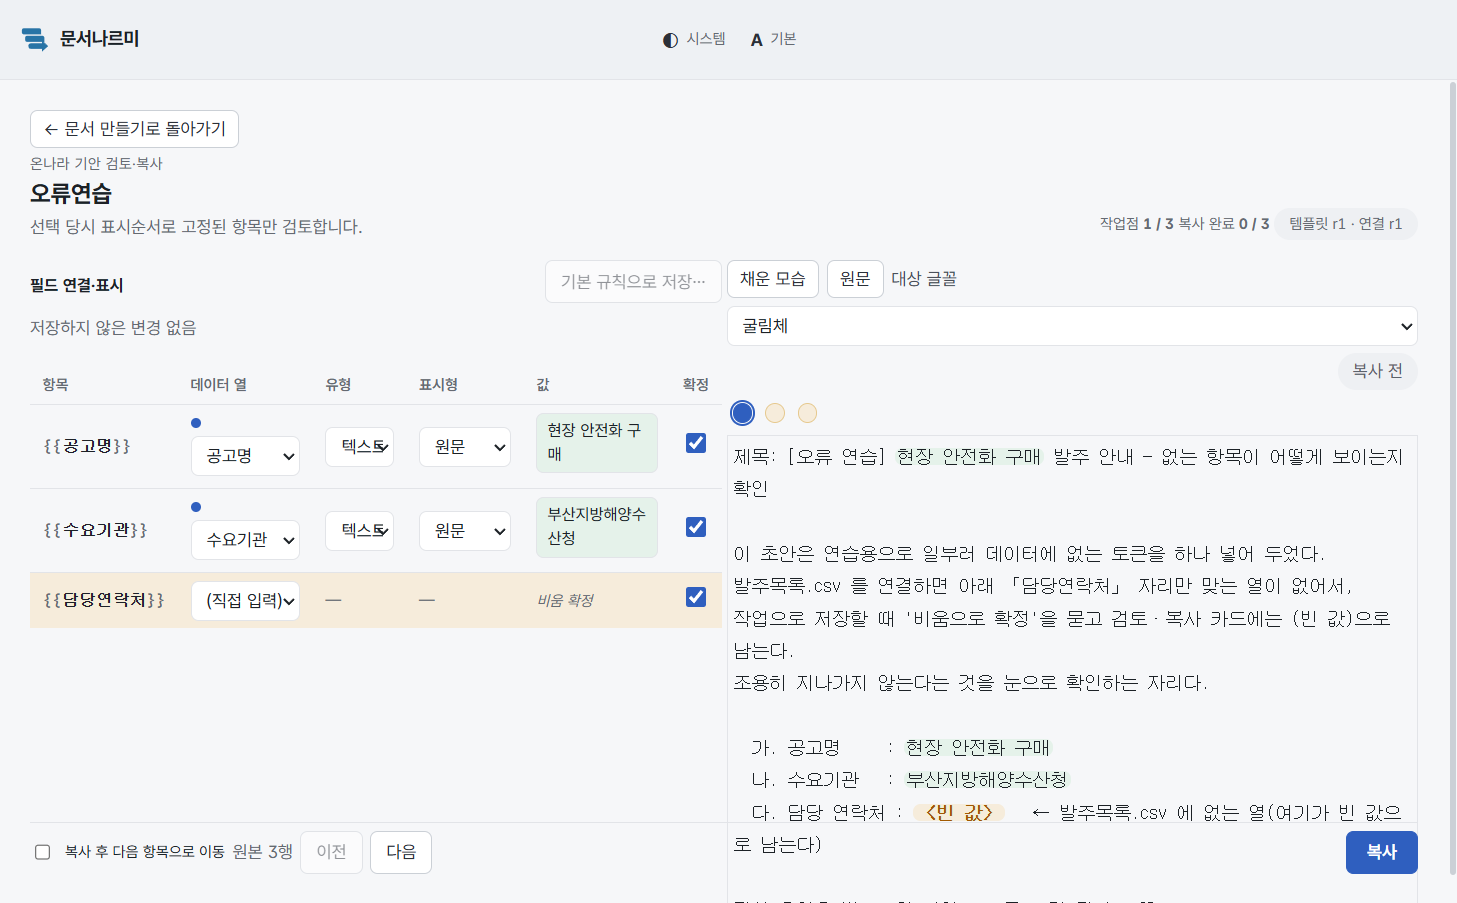
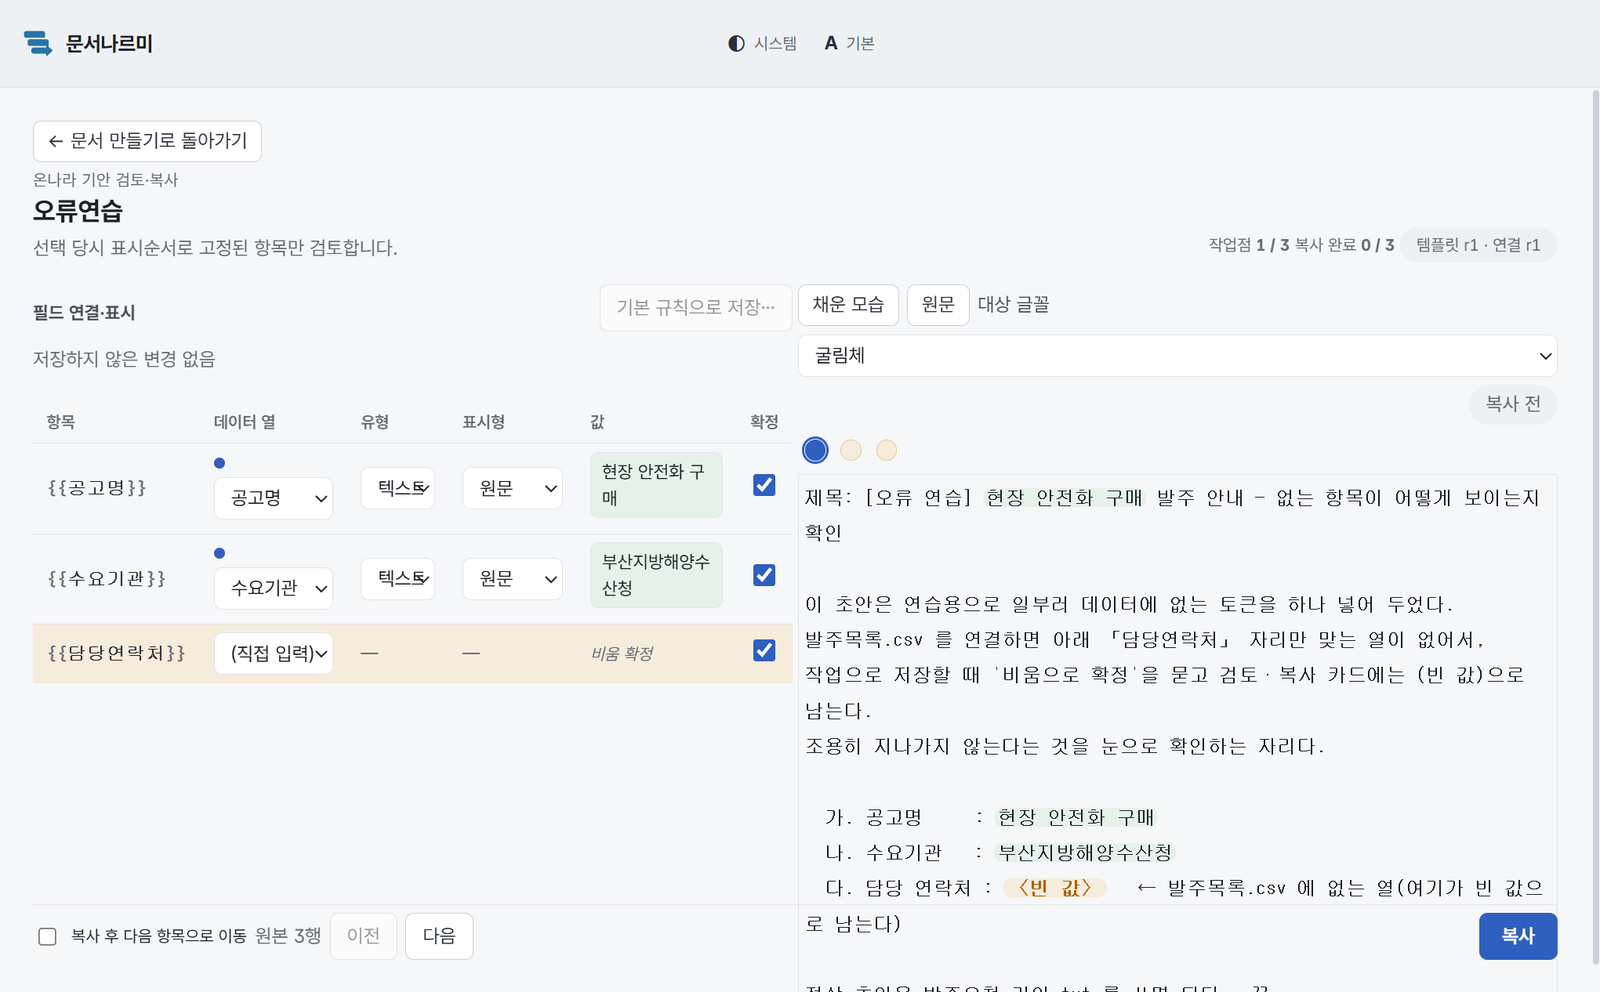
fix: `.zone` 규칙군 복구 + 고아 class 게이트 — 공유 표면 사망의 과다 삭제 (#330)
「기안」 화면 사망(F6 PR-B, 67894b0)이 `.draft-duo` 를 지우면서 곁달린 공유 규칙 넷을
함께 지웠다. `.draft-duo` 는 화면과 함께 죽는 것이 맞았지만 `.job-zones`·`.zone`·
`.zone + .zone`·`.zone-cap` 은 살아 있는 「문서 만들기」가 쓰던 것이다.

소실이 조용했던 이유는 규칙 없는 class 에 브라우저가 아무 말도 하지 않기 때문이다.
실사용 피드백 3건(좌우 열 간격이 좁다 · 섹션별 식별성 부족 · 캡션이 눈에 안 들어온다)이
전부 이 회귀 하나로 수렴했다.

같은 커밋이 주석을 「job·draft 공통(둘 다 .zone)」에서 「job 소유(.zone)」로 고쳐 써서
흔적으로도 잡을 수 없었다 — 규칙을 지운 손이 소유자를 명시해 뒀다.

`.data-grid` 에 gap 은 넣지 않는다. 「열 간격이 좁다」의 원인은 gap 미선언이 아니라 존
패딩 0 이고, 패딩이 돌아오면 두 열의 존이 각자 16px 를 갖고 구분선 양쪽에 선다.

그물: tests/test_web_css_orphan_classes.py — DOM 이 내는 class 중 CSS 규칙이 한 줄도
없는 것을 실패로 만든다. 기존 test_web_css_manifest.py 는 파일 단위라(링크 순서·전수
등재·주석 균형) 등재된 파일 안에서 규칙이 편집돼 사라지는 것은 못 본다. 복구 전에
빨간불을 먼저 확인했다(양성 대조). 방향은 하나뿐임을 docstring 에 선언한다 — 반대
방향(죽은 선택자)은 #325 소관.

101 스크린샷 14컷은 실앱 재캡처분이다.

Claude-Session: https://claude.ai/code/session_019GfPPAf3rQnNk4pgaKWT7v

diff --git a/web/css/job.css b/web/css/job.css
@@ -218,6 +218,18 @@ body.resizing-master{cursor:col-resize;user-select:none}
    구분선**으로. 종전엔 존마다 border+radius 카드에 legend(zone-cap 이 border 를 타넘던 절대배치)
    라 패널 안에 상자가 겹쳐 보였다. 이제 job-zones 가 단일 카드, 존은 그 안의 구획(인접 존 사이
    상단 구분선), zone-cap 은 절대 legend 대신 인라인 섹션 헤더. job 소유(.zone). */
+/* overflow 는 visible 유지 — 존 안 열 필터 팝오버(.colpanel, position:absolute)가 표면 밖으로
+   펼쳐질 때 잘리면 안 된다(구분선은 표면 중앙이라 둥근 모서리와 무관, 클리핑 불필요). */
+/* 이 네 규칙은 「기안」 사망(F6 PR-B, 67894b0)에서 .draft-duo 를 지울 때 **곁달려 함께**
+   삭제됐다가 복구된 것이다 — 죽은 것은 draft 쪽이고 이 넷은 살아 있는 「문서 만들기」의
+   것이었다. 소실이 조용했던 이유는 규칙 없는 class 에 브라우저가 아무 말도 하지 않기
+   때문이고, 그 침묵은 이제 tests/test_web_css_orphan_classes.py 가 깬다. */
+.job-zones{display:flex;flex-direction:column;
+  border:1px solid var(--a-border);border-radius:var(--rad-surface);background:var(--a-card)}
+.zone{padding:var(--sp-16) var(--sp-16) var(--sp-12);position:relative}
+.zone + .zone{border-top:1px solid var(--a-border)}
+.zone-cap{display:block;margin-bottom:var(--sp-10);
+  color:var(--n-header-ink)}
 /* v6 `screen-data` 2열(재작성 R1) — 좌 `.dg-main`(현재 데이터·거울·결과) / 우 `.dg-side`
    (이 데이터에 사용할 문서·선택한 작업·생성 준비). 구 `.job-duo`(표|거울 병치, #272)를
    대체한다: v6 의 성격은 데이터와 문서 선택이 가로로 마주 보는 것이고, 표↔거울 같은 시야는

diff --git a/tests/test_web_css_orphan_classes.py b/tests/test_web_css_orphan_classes.py
@@ -1,0 +1,160 @@
+"""고아 class 게이트 — 셸이 내는 class 중 **규칙이 한 줄도 없는 것**을 시끄럽게 만든다.
+
+이 게이트가 없어서 통과한 사고가 있다. `67894b0`(F6 PR-B, 「기안」 화면 사망)이
+`.draft-duo` 계열을 지우면서 **곁달린 공유 규칙까지 함께** 지웠다::
+
+    .job-zones{...}                       ← job 세션 표면의 단일 카드
+    .zone{padding:var(--sp-16) ...}       ← 존 패딩
+    .zone + .zone{border-top:...}         ← 인접 존 구분선
+    .zone-cap{display:block;...}          ← 존 캡션의 블록화
+
+`.draft-duo` 는 화면과 함께 죽는 게 맞았지만 위 넷은 **살아 있는 「문서 만들기」가 쓰던
+것**이다. 결과는 조용했다 — DOM 은 그대로 `class="zone"` 을 내고, 브라우저는 규칙 없는
+class 에 대해 아무 말도 하지 않는다. 존 패딩 0 · 구분선 소멸 · 캡션이 인라인 흐름에 섞임이
+실사용 피드백 3건으로 돌아오기까지 두 슬라이스가 지났다.
+
+더 나쁜 것은 **주석이 같은 커밋에서 고쳐졌다**는 점이다:
+
+    - ... zone-cap 은 인라인 섹션 헤더. job·draft 공통(둘 다 .zone). */
+    + ... zone-cap 은 인라인 섹션 헤더. job 소유(.zone). */
+
+규칙을 지운 손이 "이제 job 이 `.zone` 을 소유한다"고 적어 뒀다. 흔적으로도 못 잡는다.
+
+**기존 게이트가 왜 못 잡는가.** `test_web_css_manifest.py` 는 *파일* 단위다(링크 순서·전수
+등재·주석 균형). 파일이 통째로 검사 밖으로 새는 것은 막지만, **등재된 파일 안에서 규칙이
+편집돼 사라지는 것**은 못 본다 — 세 테스트 모두 `.zone` 이 없는 상태에서 초록이었다.
+
+**이 그물은 한 방향이다.** DOM → CSS(내는데 규칙이 없다)만 잡고, 반대 방향(CSS 에만 있고
+생산자가 없는 죽은 선택자 — 지금 `.job-master`·`.master-splitter`·`.job-row`·`.job-item`)은
+잡지 않는다. 초기 오탐 정리가 별건 규모라 세우지 않았고, 그 사실을 여기 적어 둔다(조용한
+축소 금지). 죽은 CSS 정리는 이슈 #325(CSS 소유권 재정렬) 소관이다.
+"""
+
+from __future__ import annotations
+
+import re
+from pathlib import Path
+
+ROOT = Path(__file__).resolve().parents[1]
+WEB = ROOT / "web"
+
+#: 규칙이 없어도 정당한 class — **사유 없이는 등재하지 않는다**.
+#:
+#: 두 부류뿐이다: ⑴ JS 가 동작으로만 소비하는 훅(`classList.contains`·`closest`·
+#: `querySelector`) ⑵ 스타일 없이 의미만 표시하는 구조 표지. 「나중에 스타일 붙일 것」은
+#: 사유가 아니다 — 그건 지금 없는 것이고, 붙일 때 등재를 지우면 된다.
+STYLELESS_BY_DESIGN: dict[str, str] = {
+    # ⑴ 동작 훅 — 이벤트 위임의 판별자로만 쓰인다.
+    "ck": "작업대 매핑 체크박스 판별자(workbench.js 위임)",
+    "mapfmt": "표시형 select 판별자(workbench.js:388 classList.contains)",
+    "maptype": "타입 select 판별자(workbench.js:386 classList.contains)",
+    "maprev": "자동 복귀 버튼 판별자(workbench.js:399 closest)",
+    "ign-fold": "미사용 헤더 접힘 상태 되읽기(editor.js:79 querySelector)",
+    "tok-fold": "파일명 토큰 참조 접힘 상태 되읽기(editor.js:81 querySelector)",
+    # ⑵ 구조 표지 — 스타일은 부모·형제가 지고, 이름은 자리를 말한다.
+    "cand-run": "후보 카드의 마지막 실행 줄 표지(스타일은 .job-cand-card 가 진다)",
+    "cp-loading": "열 필터 패널 로딩 상태 표지(스타일은 .cp-sec 가 진다)",
+    "mapfmt-cell": "작업대 매핑 표시형 칸 표지(폭 규칙은 형제 .maptype-cell 만 갖는다)",
+    "mapval-cell": "작업대 매핑 값 칸 표지(폭 규칙은 형제 .maptype-cell 만 갖는다)",
+    "job-data-zone": "세션 좌열 「현재 데이터」 존의 자리 표지(스타일은 .zone)",
+    "job-mirror-zone": "세션 좌열 「본문 확인」 존의 자리 표지(스타일은 .zone)",
+    "job-result-zone": "세션 좌열 「생성 결과」 존의 자리 표지(스타일은 .zone)",
+    "job-cands-row": "세션 우열 후보 구획의 자리 표지(스타일은 .zone)",
+    "job-active-zone": "세션 우열 「선택한 작업」 존의 자리 표지(스타일은 .zone)",
+}
+
+#: 템플릿 보간 자리 표식 — `class="col-${i}"` 의 `col-` 같은 **조각**은 class 이름이 아니다.
+_HOLE = "\x00"
+
+_CLASS_ATTR = re.compile(r'class="([^"]*)"')
+_CLASS_NAME_ASSIGN = re.compile(r'className\s*=\s*"([^"]*)"')
+_CLASS_LIST = re.compile(r"classList\.(?:add|remove|toggle)\(([^)]*)\)")
+_STRING_LIT = re.compile(r"\"([^\"]*)\"|'([^']*)'")
+_IDENT = re.compile(r"[A-Za-z_][\w-]*\Z")
+
+
+def _tokens(raw: str) -> set[str]:
+    """공백으로 가른 뒤 **온전한 이름만** 남긴다(보간 조각·비식별자는 버린다).
+
+    조각은 두 모양으로 온다: 템플릿 보간(`class="col-${i}"`)은 구멍 표식이 남고, 문자열
+    이어붙이기(`className = "wc-render f-" + font`)는 **끝이 하이픈**으로 끊긴다. 뒤엣것은
+    정규식이 볼 수 없는 경계라 하이픈으로 판별한다 — 실제 class 이름은 하이픈으로 끝나지
+    않으므로(웹 자산 전수 확인) 이 규칙이 진짜 이름을 삼키지 않는다.
+    """
+    return {
+        t for t in raw.split()
+        if _HOLE not in t and not t.endswith("-") and _IDENT.match(t)
+    }
+
+
+def _emitted_classes() -> dict[str, set[str]]:
+    """셸과 화면 JS 가 실제로 DOM 에 내는 class → 그 자리들."""
+    found: dict[str, set[str]] = {}
+    sources = [WEB / "index.html", *sorted(WEB.glob("js/**/*.js"))]
+    for path in sources:
+        text = path.read_text(encoding="utf-8")
+        names: set[str] = set()
+        for match in _CLASS_ATTR.finditer(text):
+            # `${...}` 를 구멍 표식으로 바꾼다 — 붙어 있던 조각이 이름으로 새지 않게.
+            names |= _tokens(re.sub(r"\$\{[^}]*\}", _HOLE, match.group(1)))
+        for match in _CLASS_NAME_ASSIGN.finditer(text):
+            names |= _tokens(re.sub(r"\$\{[^}]*\}", _HOLE, match.group(1)))
+        for match in _CLASS_LIST.finditer(text):
+            for double, single in _STRING_LIT.findall(match.group(1)):
+                names |= _tokens(double or single)
+        where = path.relative_to(ROOT).as_posix()
+        for name in names:
+            found.setdefault(name, set()).add(where)
+    return found
+
+
+def _styled_classes() -> set[str]:
+    """`web/css/*.css` 전수의 선택자에 등장하는 class 이름."""
+    names: set[str] = set()
+    for path in sorted((WEB / "css").glob("*.css")):
+        text = re.sub(r"/\*.*?\*/", " ", path.read_text(encoding="utf-8"), flags=re.S)
+        selectors = re.sub(r"\{[^{}]*\}", " ", text)  # 선언 블록을 걷어 선택자만 남긴다
+        names.update(re.findall(r"\.(-?[A-Za-z_][\w-]*)", selectors))
+    return names
+
+
+def test_every_class_the_shell_emits_has_a_rule() -> None:
+    """DOM 이 내는 class 는 CSS 어딘가에 규칙이 있거나, 사유와 함께 등재돼 있다."""
+    emitted = _emitted_classes()
+    styled = _styled_classes()
+    orphans = {
+        name: sites
+        for name, sites in emitted.items()
+        if name not in styled and name not in STYLELESS_BY_DESIGN
+    }
+    assert not orphans, (
+        "규칙이 한 줄도 없는 class 를 DOM 이 내고 있습니다:\n"
+        + "\n".join(f"  .{n} — {' · '.join(sorted(s))}" for n, s in sorted(orphans.items()))
+        + "\n스타일을 잃은 것이면 web/css 에 규칙을 되살리고, 스타일이 원래 없는 것이면 "
+        "STYLELESS_BY_DESIGN 에 **사유와 함께** 등재하세요."
+    )
+
+
+def test_stylesless_allowlist_has_no_stale_entries() -> None:
+    """허용 목록이 실물을 앞지르지 않는다 — 규칙이 생겼거나 class 가 사라지면 등재를 지운다.
+
+    허용 목록은 「지금 스타일이 없다」는 선언이지 영구 면제가 아니다. 등재해 둔 class 에
+    규칙이 생기면 그 등재는 거짓말이 되고, class 자체가 사라지면 다음 사람이 사유를 읽고
+    있지도 않은 것을 지키게 된다.
+    """
+    emitted = _emitted_classes()
+    styled = _styled_classes()
+    now_styled = sorted(n for n in STYLELESS_BY_DESIGN if n in styled)
+    gone = sorted(n for n in STYLELESS_BY_DESIGN if n not in emitted)
+    assert not now_styled, (
+        f"규칙이 생겼는데 허용 목록에 남아 있습니다: {', '.join(now_styled)} — 등재를 지우세요."
+    )
+    assert not gone, (
+        f"DOM 이 더는 내지 않는 class 가 허용 목록에 남아 있습니다: {', '.join(gone)} — 등재를 지우세요."
+    )
+
+
+def test_allowlist_entries_carry_a_reason() -> None:
+    """빈 사유는 등재가 아니다 — 「왜 스타일이 없어도 되는가」가 등재의 값이다."""
+    empty = sorted(n for n, why in STYLELESS_BY_DESIGN.items() if not why.strip())
+    assert not empty, f"사유 없는 등재: {', '.join(empty)}"

diff --git a/docs/UX_FEEDBACK_U2.md b/docs/UX_FEEDBACK_U2.md
@@ -43,9 +43,20 @@ v6 표면 전면 재작성(R1·F1~F8)이 완주한 직후 받은 **실사용자 
 
 ### 2.1 `.zone` CSS 유실 회귀 (P1, 단일 근본원인)
 
-`67894b0`(F6 PR-B, #317)의 `app.css` 9분할에서 아래 규칙군이 **이관 없이 소멸**했다.
-현재 `web/css/` 전체에 `.zone` 규칙이 0개인데 `web/css/job.css:217-224` 주석은 아직 그
-규칙을 설명한다 — **주석만 살아남았다**.
+> **귀인 정정(2026-07-29, 착수 실측).** 이 절은 처음에 *"9분할에서 이관 없이 소멸"* 이라고
+> 적었다. git 실측은 다르다 — 기제가 **분할이 아니라 과다 삭제**다. 분류·조치는 그대로지만
+> 후속 규칙이 달라지므로(아래) 근거를 고쳐 적는다.
+>
+> | 사실 | 증거 |
+> |---|---|
+> | `67894b0` 시점엔 아직 `app.css` 단일 파일이었다 | `git show 67894b0:web/css/job.css` → `fatal: ... exists on disk, but not in '67894b0'` |
+> | 9분할은 **그 뒤** 별도 커밋이고 바이트 보존이었다 | `6b9a98e`(#322) |
+> | 규칙은 `67894b0`(F6 PR-B, #317 「기안」 사망)에서 `.draft-duo` 를 지우는 **같은 hunk** 에 `-` 로 딸려나갔다 | `git show 67894b0 -- web/css/app.css` |
+
+`67894b0`(F6 PR-B, #317)이 「기안」 화면을 죽이며 `.draft-duo` 계열을 지울 때 아래 규칙군이
+**곁달려 함께** 삭제됐다. `.draft-duo` 는 화면과 함께 죽는 것이 맞았지만 이 넷은 살아 있는
+「문서 만들기」가 쓰던 것이다. 현재 `web/css/` 전체에 `.zone` 규칙이 0개인데
+`web/css/job.css:217-224` 주석은 아직 그 규칙을 설명한다 — **주석만 살아남았다.**
 
 ```css
 /* git show 67894b0~1:web/css/app.css:894-898 */
@@ -61,10 +72,15 @@ v6 표면 전면 재작성(R1·F1~F8)이 완주한 직후 받은 **실사용자 
 | 섹션별 식별성 부족 | 인접 존 구분선 소멸 |
 | 캡션이 눈에 안 들어온다 | `.zone-cap{display:block}` 소멸로 인라인 흐름에 섞임 |
 
-**조치**: 규칙군을 `web/css/job.css`(존 소유자)로 복구 + `.data-grid` 열 간격 명시.
-`draft-duo` 관련 규칙은 `draft` 화면 사망(F6 PR-B)과 함께 무효이므로 되살리지 않는다.
+**조치**: 규칙군을 `web/css/job.css`(존 소유자)로 복구. `draft-duo`·`.zone.workcard` 관련
+규칙은 `draft` 화면 사망(F6 PR-B)과 함께 무효이므로 되살리지 않는다.
 
-**같은 분할이 남긴 죽은 CSS 2건**:
+**`.data-grid` 열 간격은 명시하지 않는다**(착수 실측으로 뒤집힌 조치). 위 표의 「좌우 열
+간격이 좁다」는 gap 미선언이 아니라 **존 패딩 0** 이 원인이다 — `.zone{padding:16px}` 이
+돌아오면 두 열의 존이 각자 16px 를 갖고 구분선 양쪽에 서므로 해소된다. 원인이 하나인데
+조치를 둘 넣으면 다음 사람이 어느 쪽이 일한 것인지 못 센다.
+
+**반대 방향으로 남은 죽은 CSS 2건**(규칙은 있는데 생산자가 없다 — 위 그물이 안 잡는 축):
 
 - `job.css:150-158` `.job-master`·`.master-splitter` — 좌 master 목록 사망(F2 PR-B)으로
   대응 DOM이 없다
@@ -72,10 +88,29 @@ v6 표면 전면 재작성(R1·F1~F8)이 완주한 직후 받은 **실사용자 
   편집기 템플릿 탭(`.libselrow .job-more`)이 그 규칙을 먹고 산다**. 죽은 화면의 CSS 파일이
   산 화면을 부양하는 상태
 
-**후속 규칙 — 파일 분할은 규칙 이관을 증명해야 한다.** 이슈 **#325**(CSS 소유권 재정렬 —
-선행 = 시각 회귀 그물)가 이 사고를 예언했고, 그물이 없어 두 슬라이스를 통과했다. 복구만
-하고 그물을 안 붙이면 다음 분할에서 또 사라진다. 「삭제는 의무를 상속한다」의 **분할판**:
-**옮기지 않은 규칙은 지운 규칙과 같다.**
+**같은 커밋이 주석을 고쳐 썼다** — 이 사고에서 제일 나쁜 부분이다:
+
+```diff
+- ... zone-cap 은 절대 legend 대신 인라인 섹션 헤더. job·draft 공통(둘 다 .zone). */
++ ... zone-cap 은 절대 legend 대신 인라인 섹션 헤더. job 소유(.zone). */
+```
+
+규칙을 지운 손이 *"이제 job 이 `.zone` 을 소유한다"* 고 적어 뒀다. 소유자를 명시했으니
+남은 사람은 규칙이 있다고 읽는다 — **흔적으로도 못 잡는다.**
+
+**후속 규칙 — 「삭제는 의무를 상속한다」의 공유-표면판.** 표면을 죽일 때 위험한 것은 그
+표면의 규칙이 아니라 **그 표면과 이웃이 나눠 쓰던 규칙**이다. 죽는 쪽만 보고 지우면 산 쪽이
+말없이 벗겨진다. 이슈 **#325**(CSS 소유권 재정렬 — 선행 = 시각 회귀 그물)가 이 사고를
+예언했고, 그물이 없어 **세 슬라이스**를 통과했다(사망 → 분할 → 착지).
+
+그래서 복구와 **같은 PR** 에 그물을 붙인다 — `tests/test_web_css_orphan_classes.py`:
+DOM 이 내는 class 중 CSS 규칙이 **한 줄도 없는 것**을 실패로 만든다. 기존
+`test_web_css_manifest.py` 는 *파일* 단위라(링크 순서·전수 등재·주석 균형) 등재된 파일 **안에서**
+규칙이 편집돼 사라지는 것은 못 본다 — 세 테스트 모두 `.zone` 이 없는 상태에서 초록이었다.
+
+그물은 **한 방향**이다(DOM → CSS). 반대 방향(CSS 에만 있고 생산자가 없는 죽은 선택자 —
+아래 2건)은 초기 오탐 정리가 별건 규모라 세우지 않았고, 그 사실을 게이트 docstring 에
+적어 뒀다. 조용한 축소가 아니라 선언된 축소다.
 
 ### 2.2 배치·정렬·크기
 
@@ -481,6 +516,7 @@ id 키 안이 이 계열의 해법이 아닌 이유이기도 하다.
 | 대상 | 방법 |
 |---|---|
 | §2.1 회귀 복구 | 101 하니스 스크린샷 재생성 후 `examples/quickstart-101/img/01·08·12` 대조 — 존 구분선·패딩·캡션 블록화 확인 |
+| §2.1 그물 | **복구 전에 빨간불을 먼저 본다**(양성 대조). 프로브를 양성 대조 없이 붙이면 그 프로브의 침묵이 무엇의 증거인지 말할 수 없다 |
 | §2.2~2.4 | 실앱 한 바퀴(§10.9.5 후속 규칙 2): 데이터 선택 → 작업 선택 → 본문 확인 → 미리보기 → 생성 → 작업대 |
 | §2.3 드로어 문안 | 페이로드 회귀 — `scope` 키 소멸, `note` 0건 시 빈 문자열 |
 | §4 | 후보 카드 DOM 계약·action registry·`UI_CONTRACT.md` 갱신 + selftest 프로브(활성 카드 ⋮ 존재·경고 카드 클릭이 선택이 아님) |
